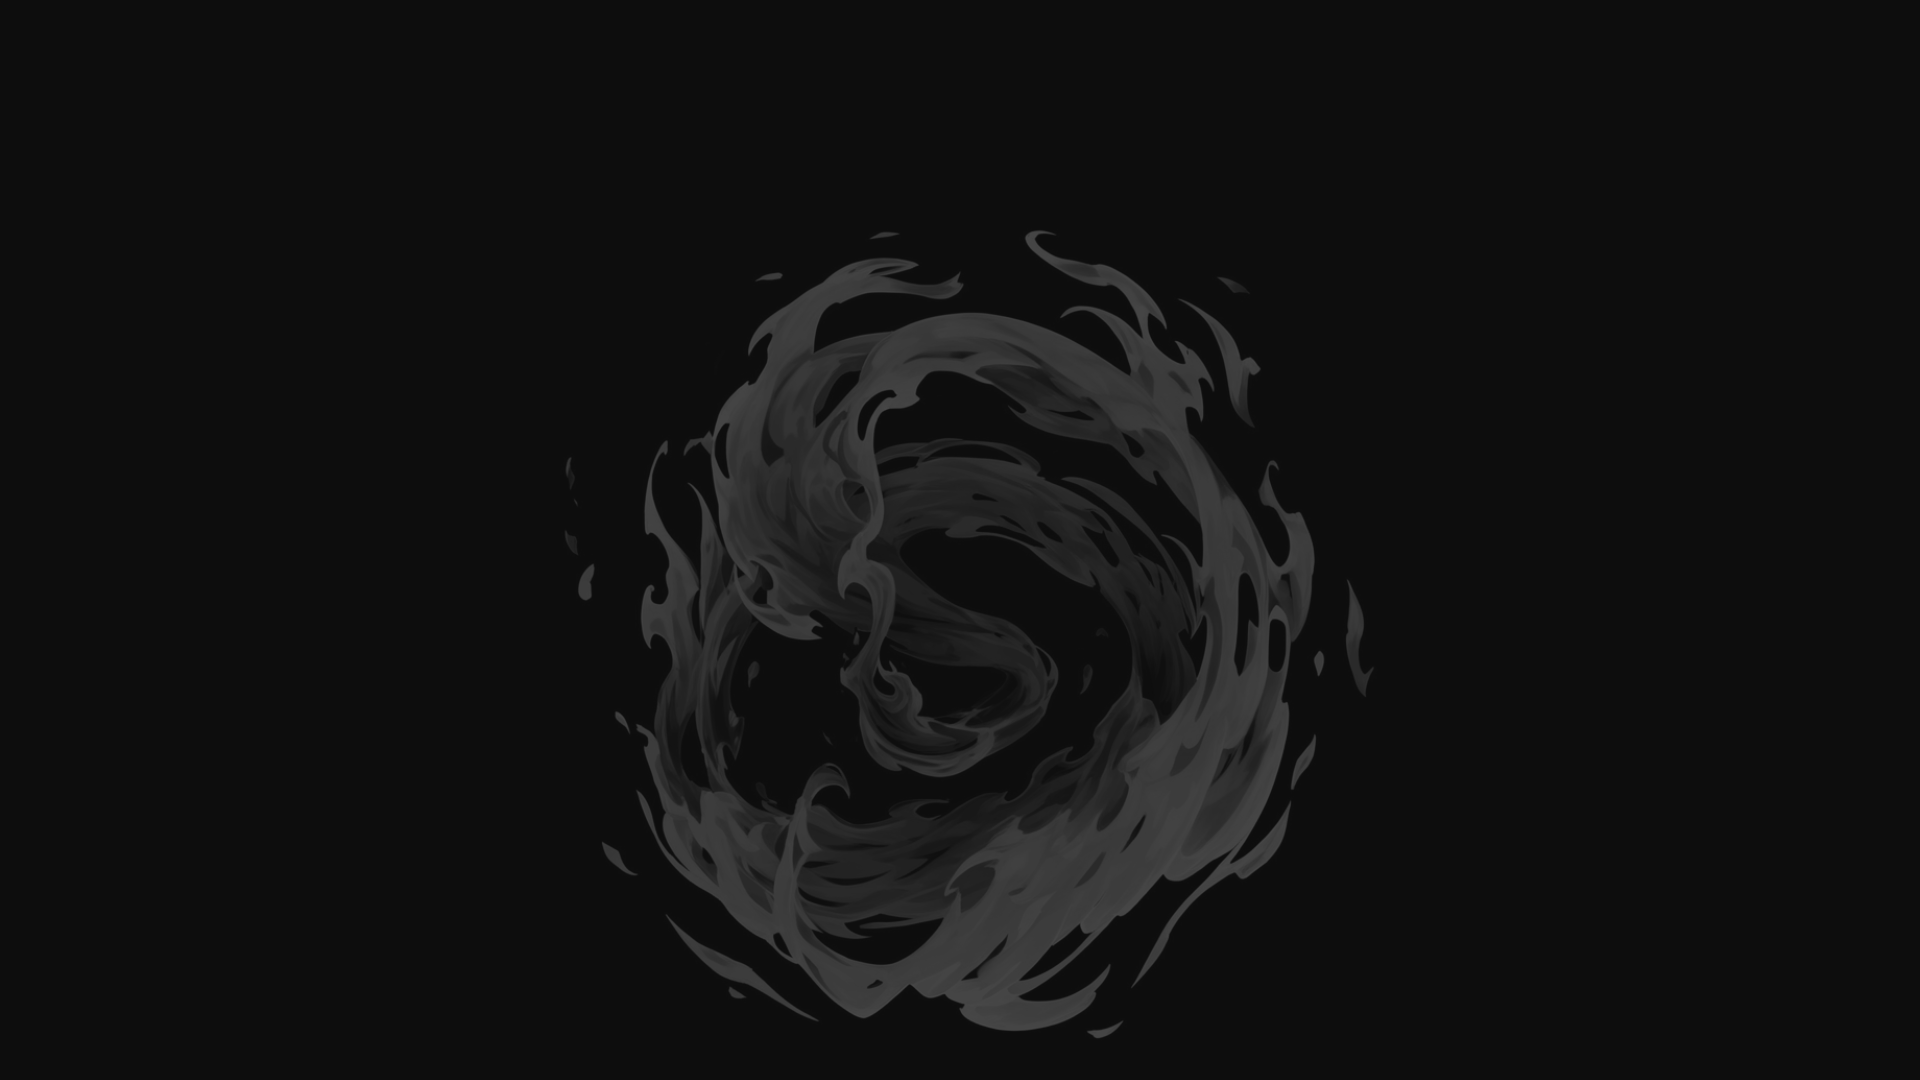
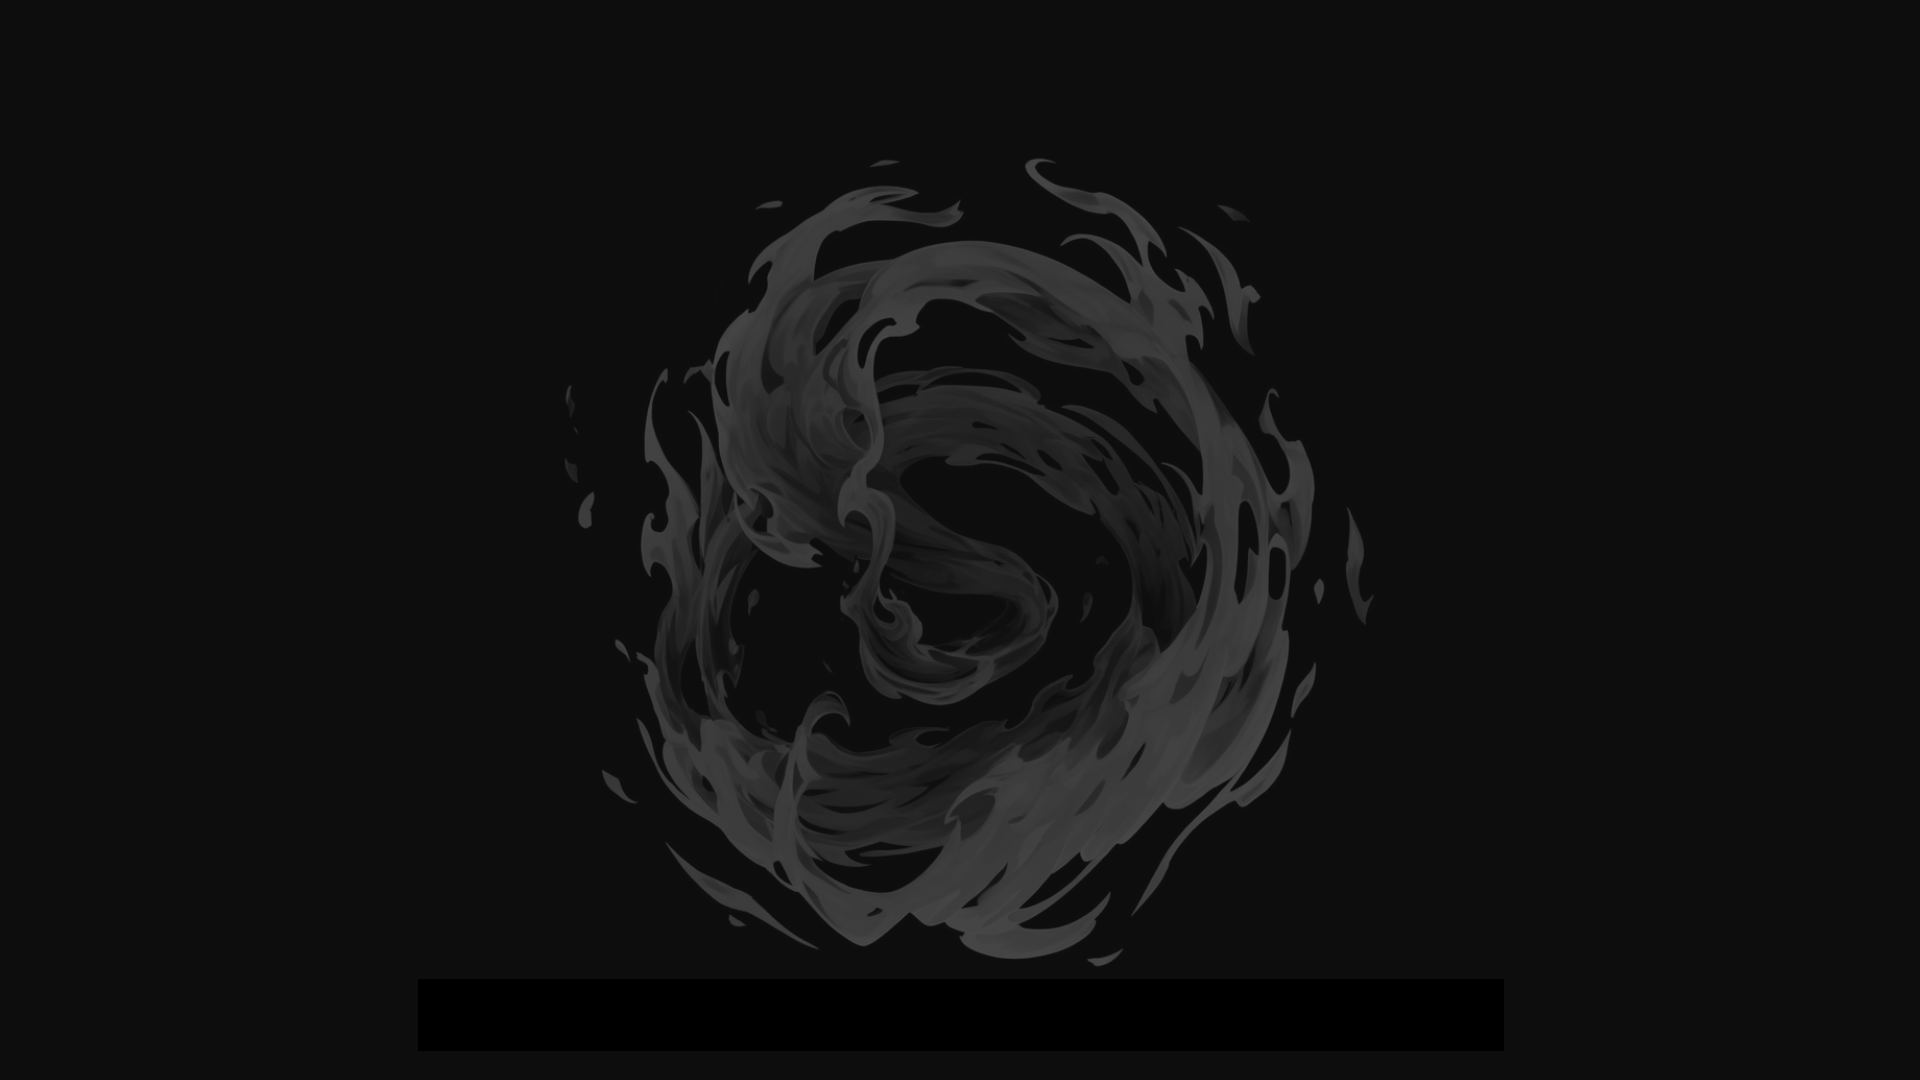
talosbg edit

Changed region(s): [[0.2812, 0.1528, 0.7188, 0.9778], [0.5312, 0.1528, 0.5625, 0.1833], [0.2812, 0.5194, 0.3125, 0.55]]

diff --git a/assets/css/style2.css b/assets/css/style2.css
@@ -170,7 +170,7 @@ form button.btn-primary:hover {
     1 - Hero
 ------------------------------------*/
 .hero {
-  background: url("../images/talos.png") no-repeat center;
+  background: url("../images/talos2.png") no-repeat center;
   background-size: cover;
   overflow: hidden;
   position: relative;
